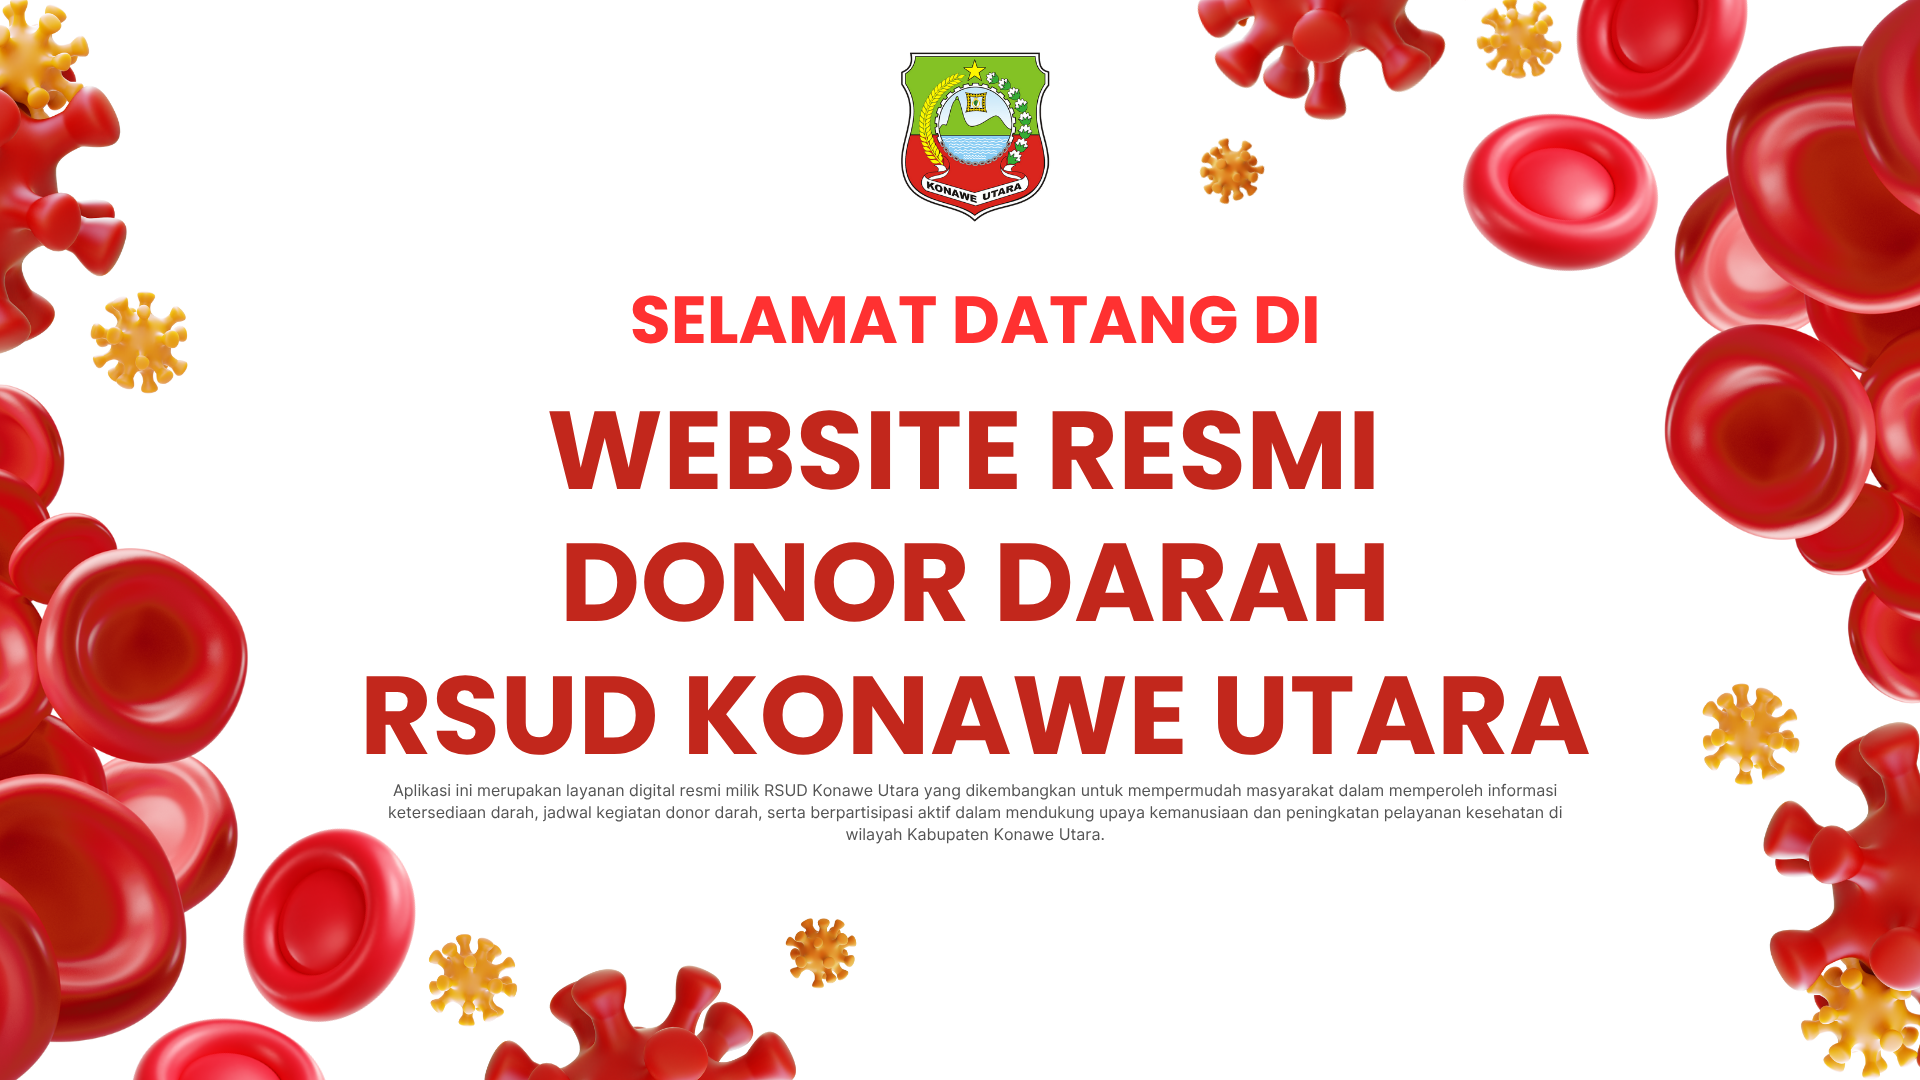
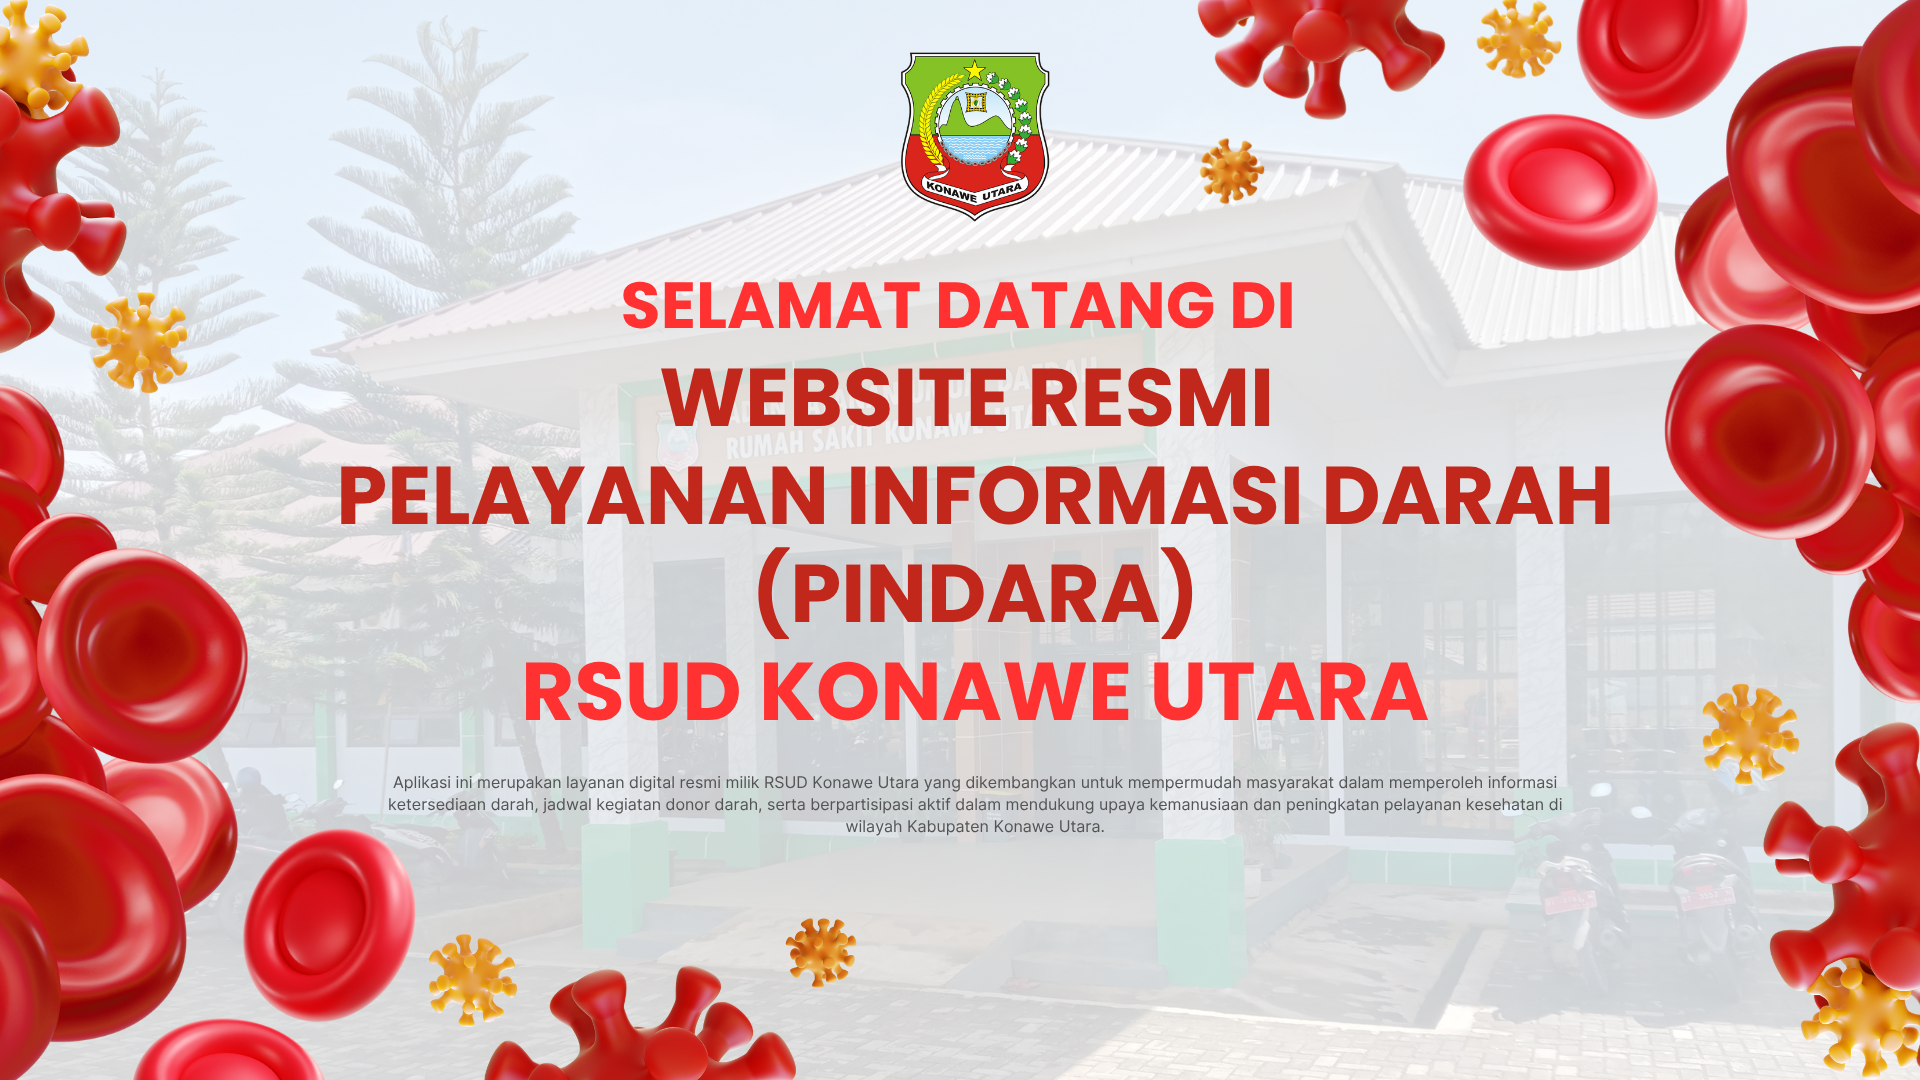
header

diff --git a/web_publish/public/assets/css/style.css b/web_publish/public/assets/css/style.css
@@ -406,7 +406,9 @@ p {
     display: block;
 }
 .nav-bar .logo .logo-nav img{
-    width: 180px;
+    width: 180px!important;
+    height: 50px!important;
+
 }
 .nav-bar .nav-bar-links .level-1 .item-level-1{
     display: inline-block;
@@ -2794,12 +2796,13 @@ li.ui-timepicker-selected, .ui-timepicker-list li:hover, .ui-timepicker-list .ui
 
 /* :: Blog */
 .blog-item{
-    margin-bottom: 30px;
+    margin-bottom: 2px!important;
 }
 .blog-item .img-box{
     position: relative;
     overflow: hidden;
     border-radius: 3px;
+    
 }
 .blog-item:hover .img-box .open-post img{
     -webkit-transform: scale(1.3);
@@ -2829,7 +2832,7 @@ li.ui-timepicker-selected, .ui-timepicker-list li:hover, .ui-timepicker-list .ui
     color: #1A3D7D;
 }
 .blog-item .text-box{
-    padding: 30px 0px 0px 30px;
+    padding: 00px 0px 0px 0px!important;
 }
 .blog-item .text-box .title-blog{
     display: block;

diff --git a/web_publish/src/components/Header.vue b/web_publish/src/components/Header.vue
@@ -35,7 +35,7 @@
                 <div class="content-box d-flex align-items-center justify-content-between">
                     <div class="logo">
                         <a href="index.html" class="logo-nav">
-                            <img class="img-fluid one" src="/assets/images/konut.png" alt="01 Logo"
+                            <img class="img-fluid one" src="/assets/images/logo.png" alt="01 Logo"
                                 style="height: 60px; width: 60px; margin-left: 120px;">
                         </a>
                         <a href="#open-nav-bar-menu" class="open-nav-bar">

diff --git a/web_publish/index.html b/web_publish/index.html
@@ -7,7 +7,7 @@
     <meta name="viewport" content="width=device-width, initial-scale=1.0" />
 
     <!-- Title -->
-    <title>STOCK DARAH</title>
+    <title>PINDARA - RSUD KONUT</title>
 
     <!-- Favicon -->
     <link rel="icon" type="image/png" href="/assets/images/konut.png" />
